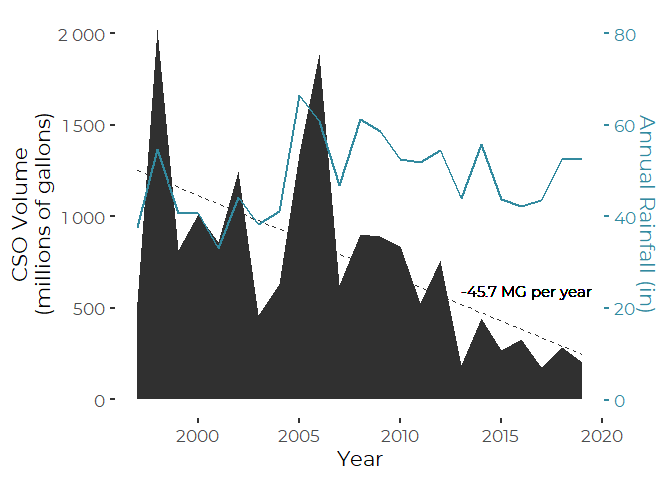
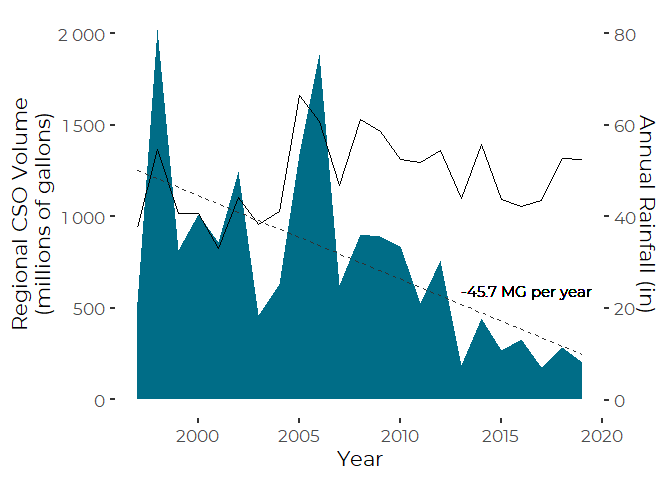
Reknit graphics

diff --git a/Graphics/DEP_CSO_Graphics.md b/Graphics/DEP_CSO_Graphics.md
@@ -13,7 +13,6 @@ Curtis C. Bohlen, Casco Bay Estuary Partnership
   - [Casco Bay Towns Data](#casco-bay-towns-data)
   - [Totals Data](#totals-data)
   - [Merge Three Data Sets](#merge-three-data-sets)
-  - [Correlations by Year](#correlations-by-year)
   - [Graphics](#graphics)
       - [CSO Volumes Per Inch of Rain](#cso-volumes-per-inch-of-rain)
           - [Linear Model to Extract
@@ -24,8 +23,7 @@ Curtis C. Bohlen, Casco Bay Estuary Partnership
       - [Total Discharges](#total-discharges)
       - [Total Outfalls](#total-outfalls)
           - [Regression to Extract Slope](#regression-to-extract-slope)
-      - [Total Events (NOT)](#total-events-not)
-  - [Summary Table](#summary-table)
+  - [Summary Table 2019](#summary-table-2019)
 
 <img
     src="https://www.cascobayestuary.org/wp-content/uploads/2014/04/logo_sm.jpg"
@@ -143,8 +141,8 @@ cb_cso_towns <- c("Cape Elizabeth",
 # Casco Bay Towns Data
 
 Although the number of events and outfalls were reported in the 2008 CSO
-report for years prior to 2006, they show no variation, suggesting these
-data are not meaningful, so we strip them out here.
+report for years prior to 19966, they show no variation, suggesting
+these data are not meaningful, so we strip them out here.
 
 ``` r
 cb_towns_data_long <- the_data %>%
@@ -176,32 +174,37 @@ cb_towns_data_wide <- cb_towns_data_long %>%
 
 # Totals Data
 
-Including total discharge volumes each year, in Millions of Gallons.
+This data set includes statewide and Casco Bay annual totals of the DEP
+data. Volumes are available both in total discharge volumes each year,
+both in Gallons and in Millions of Gallons.
+
+Again, total number of EVENTS in a year is not meaningful, because of
+the risk of double counting, so we omit do not sum events.
 
 ``` r
 annual_data <- the_data %>%
   group_by(Year) %>%
   summarize(TotVol      = sum(Volume,   na.rm = TRUE),
             TotVolMG    = TotVol / (10^6),
-            TotEvents   = sum(Events,   na.rm = TRUE),
             TotOutfalls = sum(Outfalls, na.rm = TRUE),
             
             CBTotVol      = sum(Volume*(Community %in% cb_cso_towns),
                                 na.rm = TRUE),
             CBVolMG    = CBTotVol / (10^6),
-            CBTotEvents   = sum(Events*(Community %in% cb_cso_towns),
-                                na.rm = TRUE),
             CBTotOutfalls = sum(Outfalls*(Community %in% cb_cso_towns),
                                 na.rm = TRUE),
             
             CBPctVol       = round(CBTotVol / TotVol, 4) * 100,
-            CBPctEvents    = round(CBTotEvents / TotEvents, 4) * 100,
             CBPctOutfalls  = round(CBTotOutfalls / TotOutfalls, 4) * 100,
             .groups = 'drop') %>%
   filter(Year > 1996)
 ```
 
 # Merge Three Data Sets
+
+We produce an annual data set that combines Portland Jetport weather
+data, discharge data for the Casco Bay towns, as well as the Casco Bay
+and Statewide totals.
 
 ``` r
 annual_data_all <- rain_data %>%
@@ -213,41 +216,16 @@ annual_data_all <- rain_data %>%
 rm(annual_data, cb_towns_data_wide, rain_data, the_data)
 ```
 
-# Correlations by Year
-
-``` r
-cors <- cor(annual_data_all, use = 'pairwise')
-#> Warning in cor(annual_data_all, use = "pairwise"): the standard deviation is
-#> zero
-corrplot(cors, method="circle", type = 'upper', tl.cex = .5)
-```
-
-![](DEP_CSO_Graphics_files/figure-gfm/correlation_figure-1.png)<!-- -->
-
-``` r
-rm(cors)
-```
-
-What jumps out is:
-
-1.  Year is negatively correlated with volume and events
-2.  Year is positively (though not strongly) correlated with
-    precipitation.
-3.  Total CSO VOlumes and Events statewide are dropping even faster than
-    in our region, so the percentage of the states CSOs from her is
-    climbing.
-4.  Volume and number of CSO events are correlated across the region.
-    Bad years in one jurisdiction are bad for many.
-5.  Portland’s CSOs are a big enough part of regional and state-wide
-    totals so that they are always highly correlated with totals. The
-    precipitation variables are not all that highly correlated with the
-    other variables, but that
-
 # Graphics
 
 ## CSO Volumes Per Inch of Rain
 
 ### Linear Model to Extract Slope
+
+We need the slope here and in later graphics to automatically annotate
+the figure with the annual decline in CSO volumes. Unfrtunately, we
+cannot as readily automate placement of annotations, so that requires
+hand coding for each figure.
 
 ``` r
 cb_cso_lm <- lm(CSO_MG_per_inch ~ Year, data = annual_data_all)
@@ -294,6 +272,11 @@ plt +
 ```
 
 ![](DEP_CSO_Graphics_files/figure-gfm/add_rainfall-1.png)<!-- -->
+
+``` r
+#ggsave('figures/CSO_MG_per_inch_w_rain.pdf',
+#        device = cairo_pdf, width = 7, height = 5)
+```
 
 ## Regional CSO Volumes (by Town)
 
@@ -417,39 +400,12 @@ ggsave('figures/CSO_total_line_w_rain.pdf', device = cairo_pdf, width = 7, heigh
 ```
 
 ``` r
-plt <-annual_data_all %>%
-  ggplot(aes(x = Year, y = CBVolMG)) + 
-  geom_area(fill = cbep_colors()[3]) +
-  ylab('CSO Volume\n(millions of gallons)') +
-  geom_line(mapping = aes(y = Precip_in * 25), 
-            color = cbep_colors()[5],
-            lwd = 1) +
-  geom_smooth(mapping = aes(y=CBVolMG),
-              method = 'lm', se=FALSE,
-              color = cbep_colors()[3],
-              lty = 2,
-              lwd = 0.5) + 
-  geom_text(aes(x=2013, y=600, label = theannot),
-            family = 'Montserrat',
-            size = 4,
-            hjust = 0) +
-  scale_y_continuous(labels = scales::number,sec.axis = sec_axis(~ . / 25,
-                                         name = "Annual Rainfall (in)")) +
-  theme(axis.title.y.right = element_text(color = cbep_colors()[5]),
-        axis.text.y.right = element_text(color = cbep_colors()[5]),
-        axis.ticks.y.right = element_line(color = cbep_colors()[5])                              )
-plt
-#> `geom_smooth()` using formula 'y ~ x'
-```
-
-![](DEP_CSO_Graphics_files/figure-gfm/total_graphics_area-1.png)<!-- -->
-
-``` r
 annual_data_all %>%
   filter (Year > 1995) %>%
   ggplot(aes(x = Year, y = CBVolMG)) + 
   geom_area(fill = cbep_colors()[1]) +
   geom_line(aes(y = Precip_in * 25)) +
+  
   ylab('Regional CSO Volume\n(millions of gallons)') +
   scale_fill_manual(values = cbep_colors2()) +
   scale_y_continuous(labels = scales::number,sec.axis = sec_axis(~ . / 25,
@@ -466,7 +422,7 @@ annual_data_all %>%
 #> `geom_smooth()` using formula 'y ~ x'
 ```
 
-![](DEP_CSO_Graphics_files/figure-gfm/total_graphics_area_2-1.png)<!-- -->
+![](DEP_CSO_Graphics_files/figure-gfm/total_graphics_area-1.png)<!-- -->
 
 ``` r
 ggsave('figures/CSO_total_area.pdf', device = cairo_pdf, width = 7, height = 5)
@@ -511,16 +467,12 @@ plt
 #       device = cairo_pdf, width = 7, height = 5)
 ```
 
-## Total Events (NOT)
-
-Total Events makes little sense, since we can’t reconstruct which day
-each occurred on, so can’t avoid double counting.
-
-# Summary Table
+# Summary Table 2019
 
 Note that it’s really not appropriate to add up events, as events in
 different towns may have occurred on the same days, making them the same
-events.
+events. We do so here for programming simplicity. The total Events value
+should be removed before releasing the table.
 
 ``` r
 cb_towns_data_long %>% 
@@ -552,7 +504,3 @@ cb_towns_data_long %>%
 | South Portland |      3 |        4 |     8.65 |
 | Westbrook      |      4 |        5 |     9.82 |
 | Total          |     55 |       40 |   203.35 |
-
-Town by Town Changes
-
-Cac
